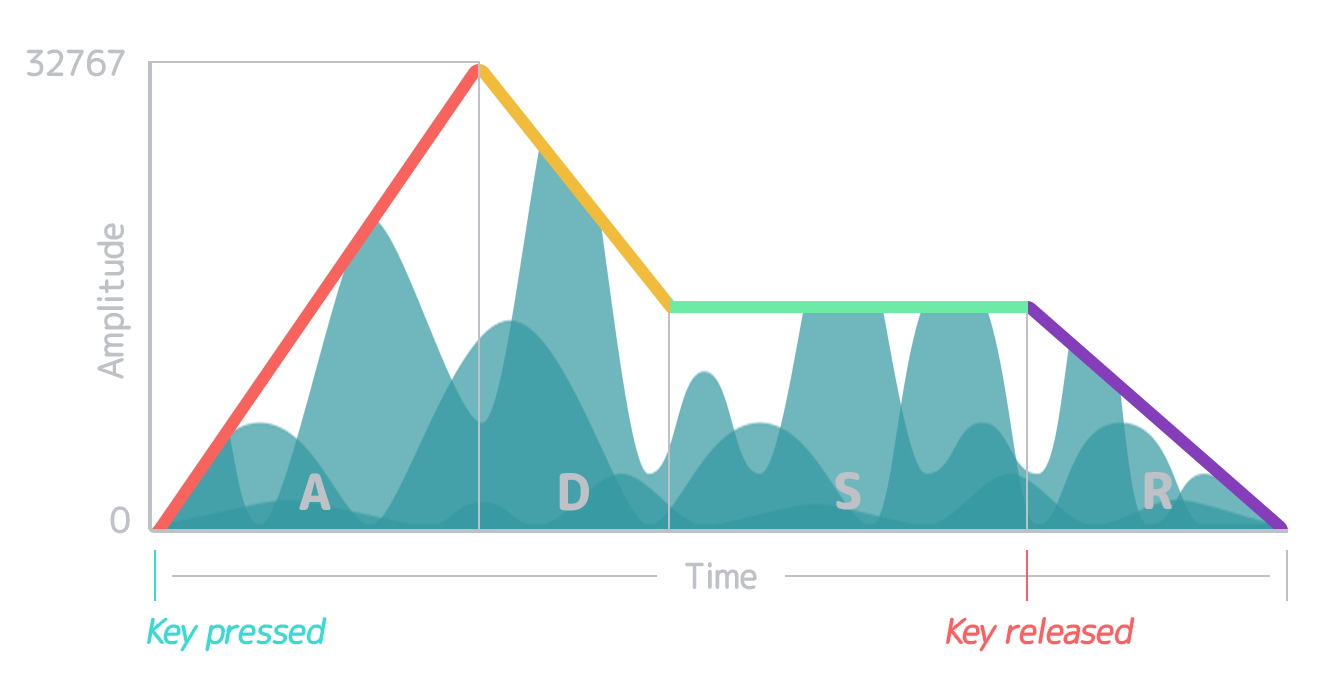
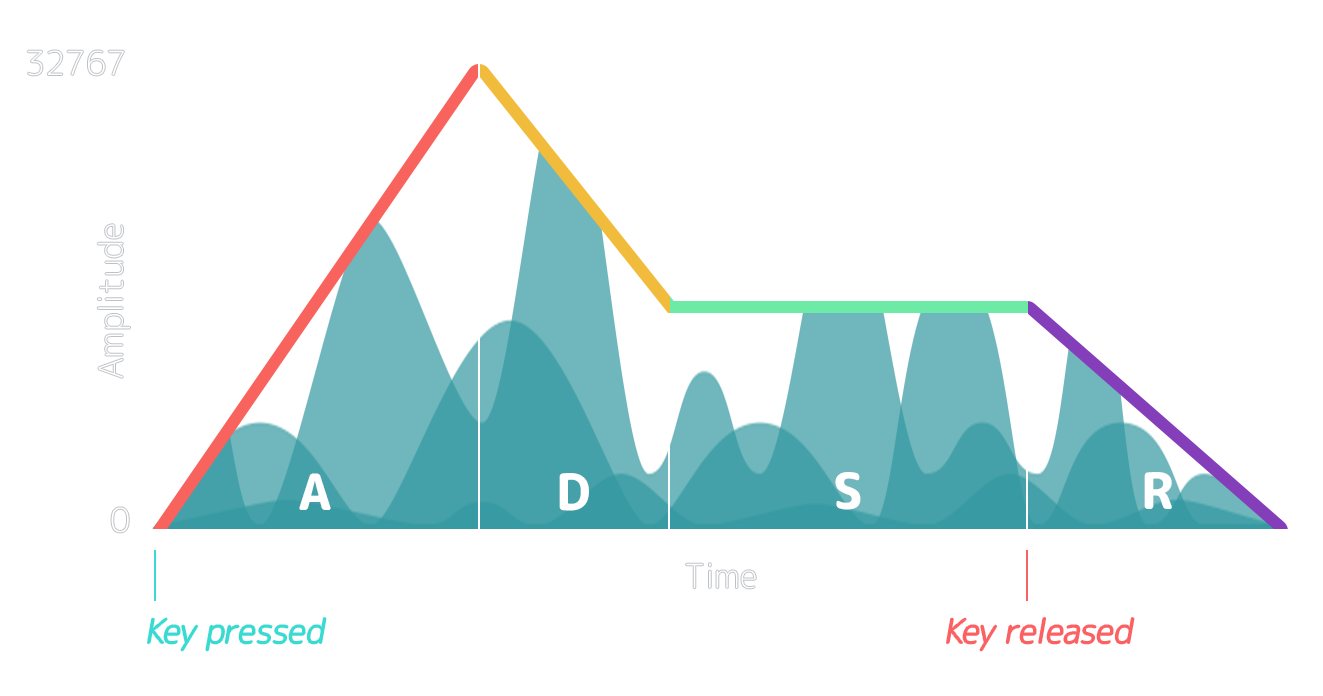
update pages

diff --git a/docs/advanced/adsr/envelopes.md b/docs/advanced/adsr/envelopes.md
@@ -134,15 +134,31 @@ Ocarina of Time and Majora's Mask use 4-Point envelope structure, however
 ![](https://bombchus.github.io/z64-music-wiki/assets/images/adsr-dark.png#only-dark)
 
 === "Attack"
+
+    ![](https://bombchus.github.io/z64-music-wiki/assets/images/adsr-attack-light.png#only-light)
+    ![](https://bombchus.github.io/z64-music-wiki/assets/images/adsr-attack-dark.png#only-dark)
+
     Attack refers to the time it takes from when a key is first pressed the sound of a sample to go from zero amplitude to the max attack amplitude. The longer your attack is the longer it will take for the sound to fade in to the max attack amplitude from zero amplitude.
 
 === "Decay"
+
+    ![](https://bombchus.github.io/z64-music-wiki/assets/images/adsr-decay-light.png#only-light)
+    ![](https://bombchus.github.io/z64-music-wiki/assets/images/adsr-decay-dark.png#only-dark)
+
     Decay refers to the time it takes the sound of a sample to go from the max attack amplitude to the sustain amplitude. The longer your decay is the longer it will take for the sound to decrease in amplitude from the max attack amplitude to the sustain amplitude.
 
 === "Sustain"
+
+    ![](https://bombchus.github.io/z64-music-wiki/assets/images/adsr-sustain-light.png#only-light)
+    ![](https://bombchus.github.io/z64-music-wiki/assets/images/adsr-sustain-dark.png#only-dark)
+
     Sustain refers to the amplitude level the sound of a sample will remain at so long as the note is being held. The higher your sustain is the less of a decrease your amplitude will have from the max attack amplitude.
 
 === "Release"
+
+    ![](https://bombchus.github.io/z64-music-wiki/assets/images/adsr-release-light.png#only-light)
+    ![](https://bombchus.github.io/z64-music-wiki/assets/images/adsr-release-dark.png#only-dark)
+
     Release refers to the time it takes from when a key is released to the sound of a sample going from sustain amplitude to return to zero amplitude. The longer your release is the longer it will take for the sound to fade out from your sustain amplitude to zero amplitude.
 
 === "Hold"

diff --git a/docs/advanced/tuning.md b/docs/advanced/tuning.md
@@ -79,15 +79,15 @@ $f(x)=Float\div\frac{32000}{x}$
 
 
 === "16000Hz"
-    ![](https://bombchus.github.io/z64-music-wiki/assets/images/sampleratecorrection-16000hz-dark.png#only-dark)
-    ![](https://bombchus.github.io/z64-music-wiki/assets/images/sampleratecorrection-16000hz-light.png#only-light)
+    ![](https://bombchus.github.io/z64-music-wiki/assets/images/waveform-16000hz-dark.png#only-dark)
+    ![](https://bombchus.github.io/z64-music-wiki/assets/images/waveform-16000hz-light.png#only-light)
 
 === "32000Hz"
-    ![](https://bombchus.github.io/z64-music-wiki/assets/images/sampleratecorrection-32000hz-dark.png#only-dark)
-    ![](https://bombchus.github.io/z64-music-wiki/assets/images/sampleratecorrection-32000hz-light.png#only-light)
+    ![](https://bombchus.github.io/z64-music-wiki/assets/images/waveform-32000hz-dark.png#only-dark)
+    ![](https://bombchus.github.io/z64-music-wiki/assets/images/waveform-32000hz-light.png#only-light)
 
 === "64000Hz"
-    ![](https://bombchus.github.io/z64-music-wiki/assets/images/sampleratecorrection-64000hz-dark.png#only-dark)
-    ![](https://bombchus.github.io/z64-music-wiki/assets/images/sampleratecorrection-64000hz-light.png#only-light)
+    ![](https://bombchus.github.io/z64-music-wiki/assets/images/waveform-64000hz-dark.png#only-dark)
+    ![](https://bombchus.github.io/z64-music-wiki/assets/images/waveform-64000hz-light.png#only-light)
 
 -----
